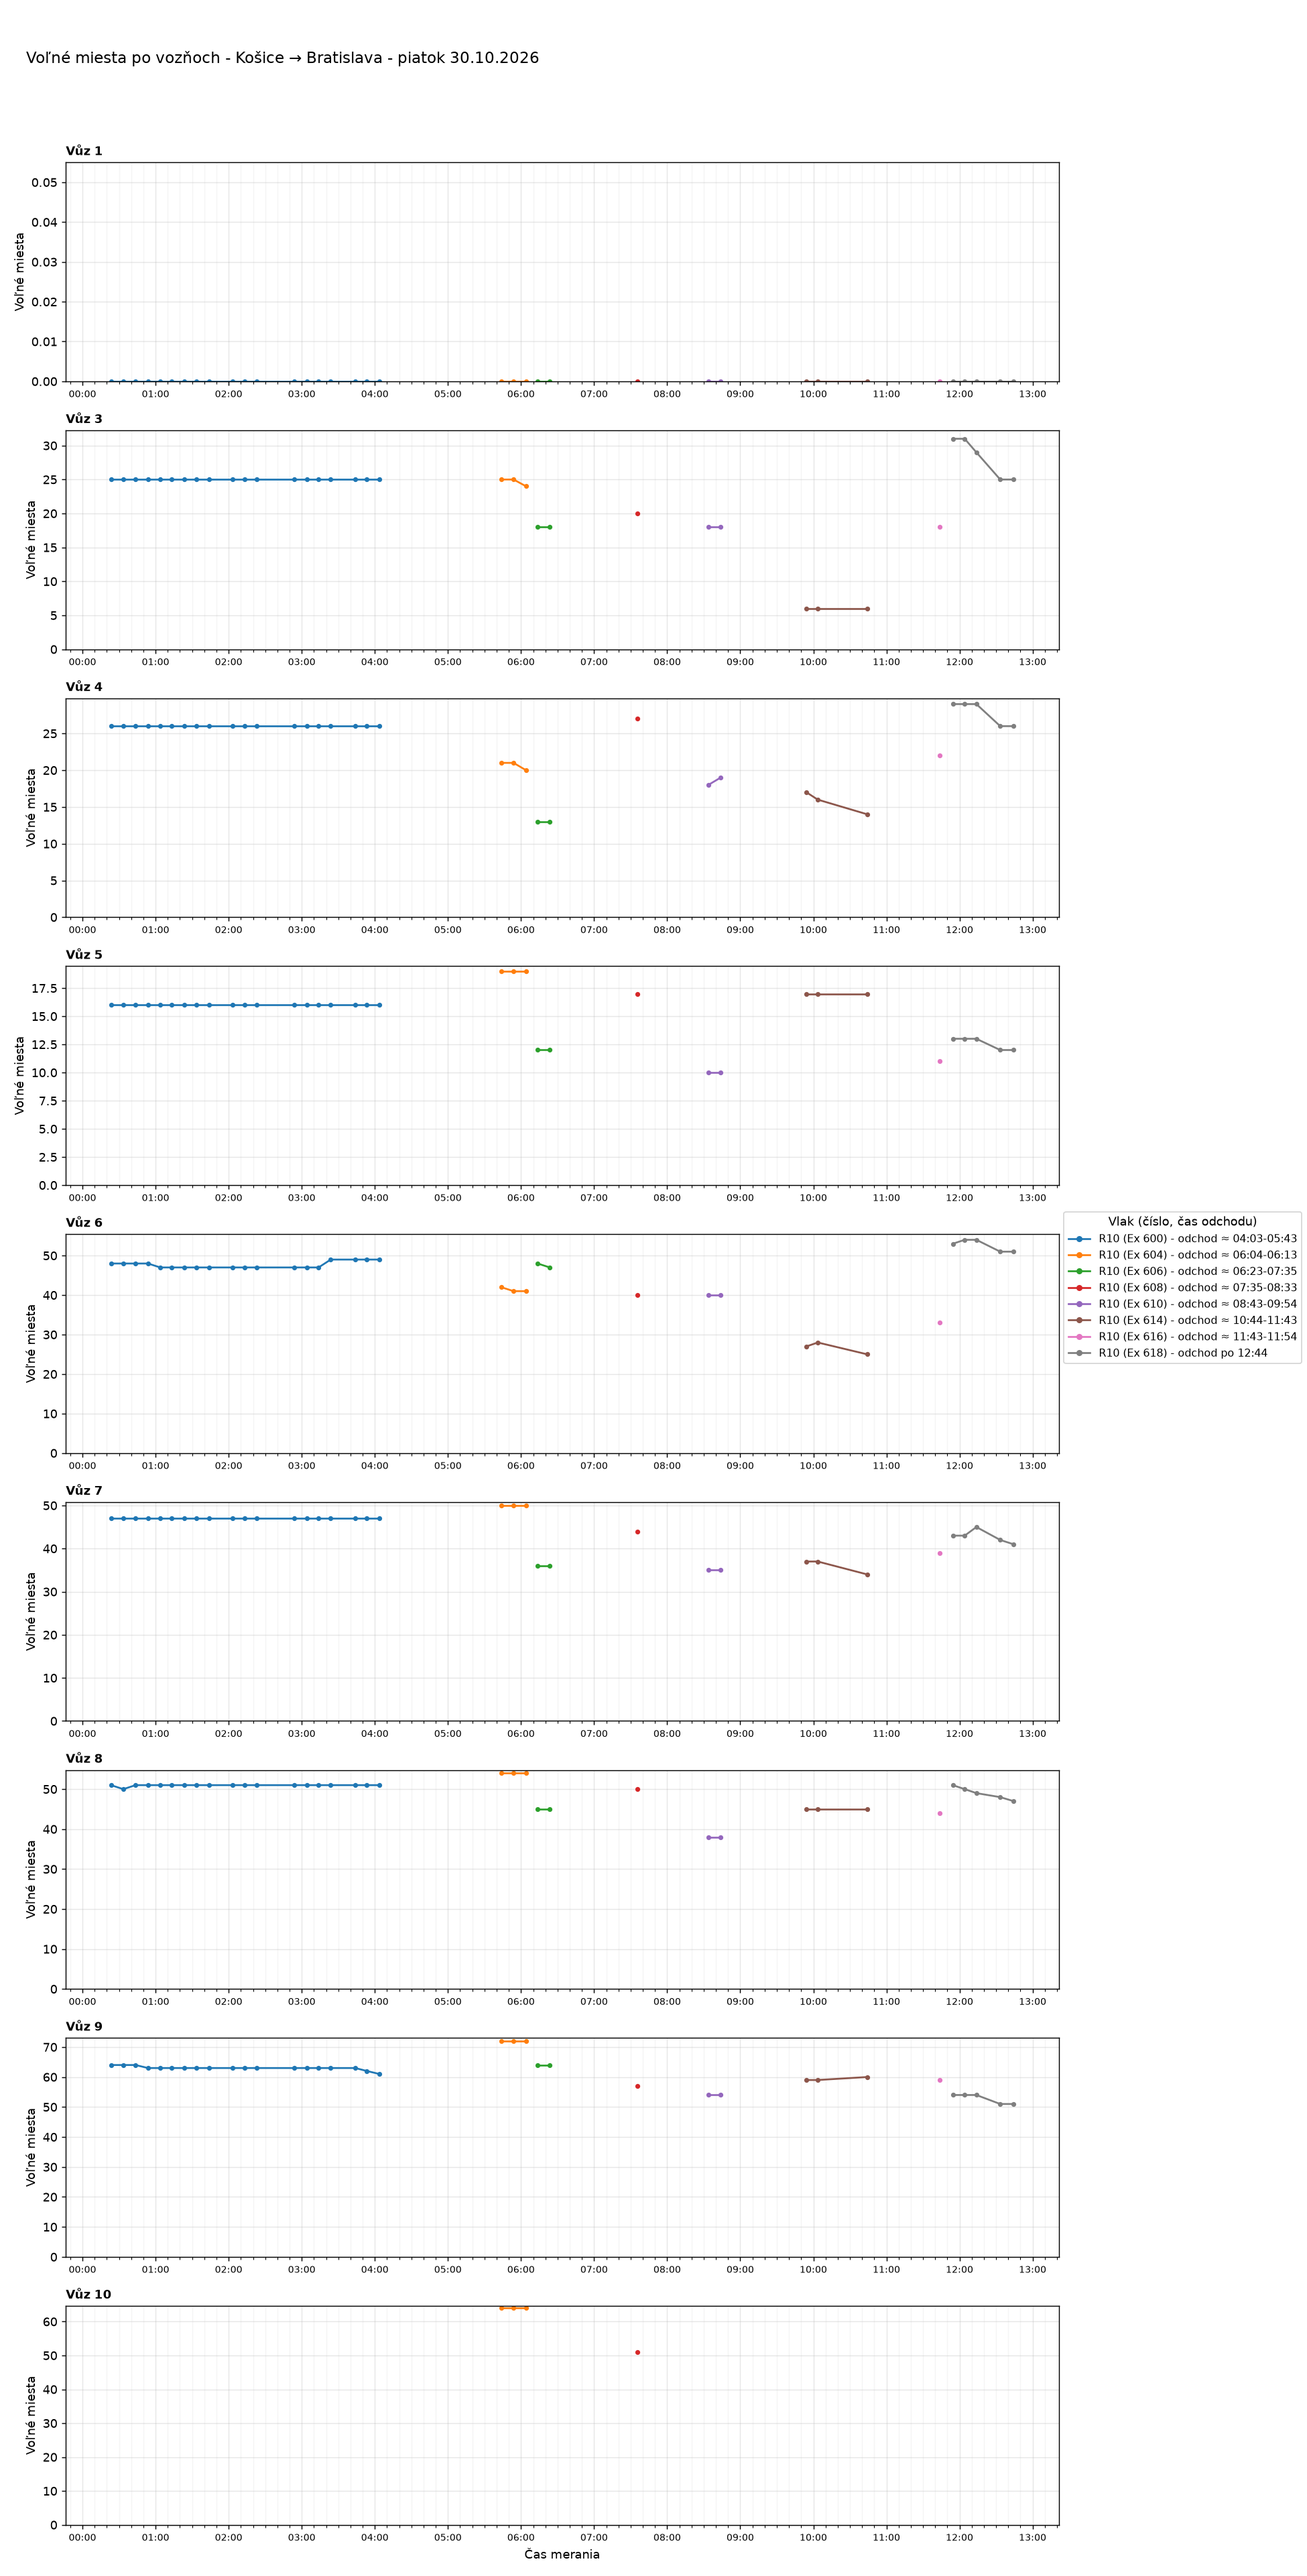
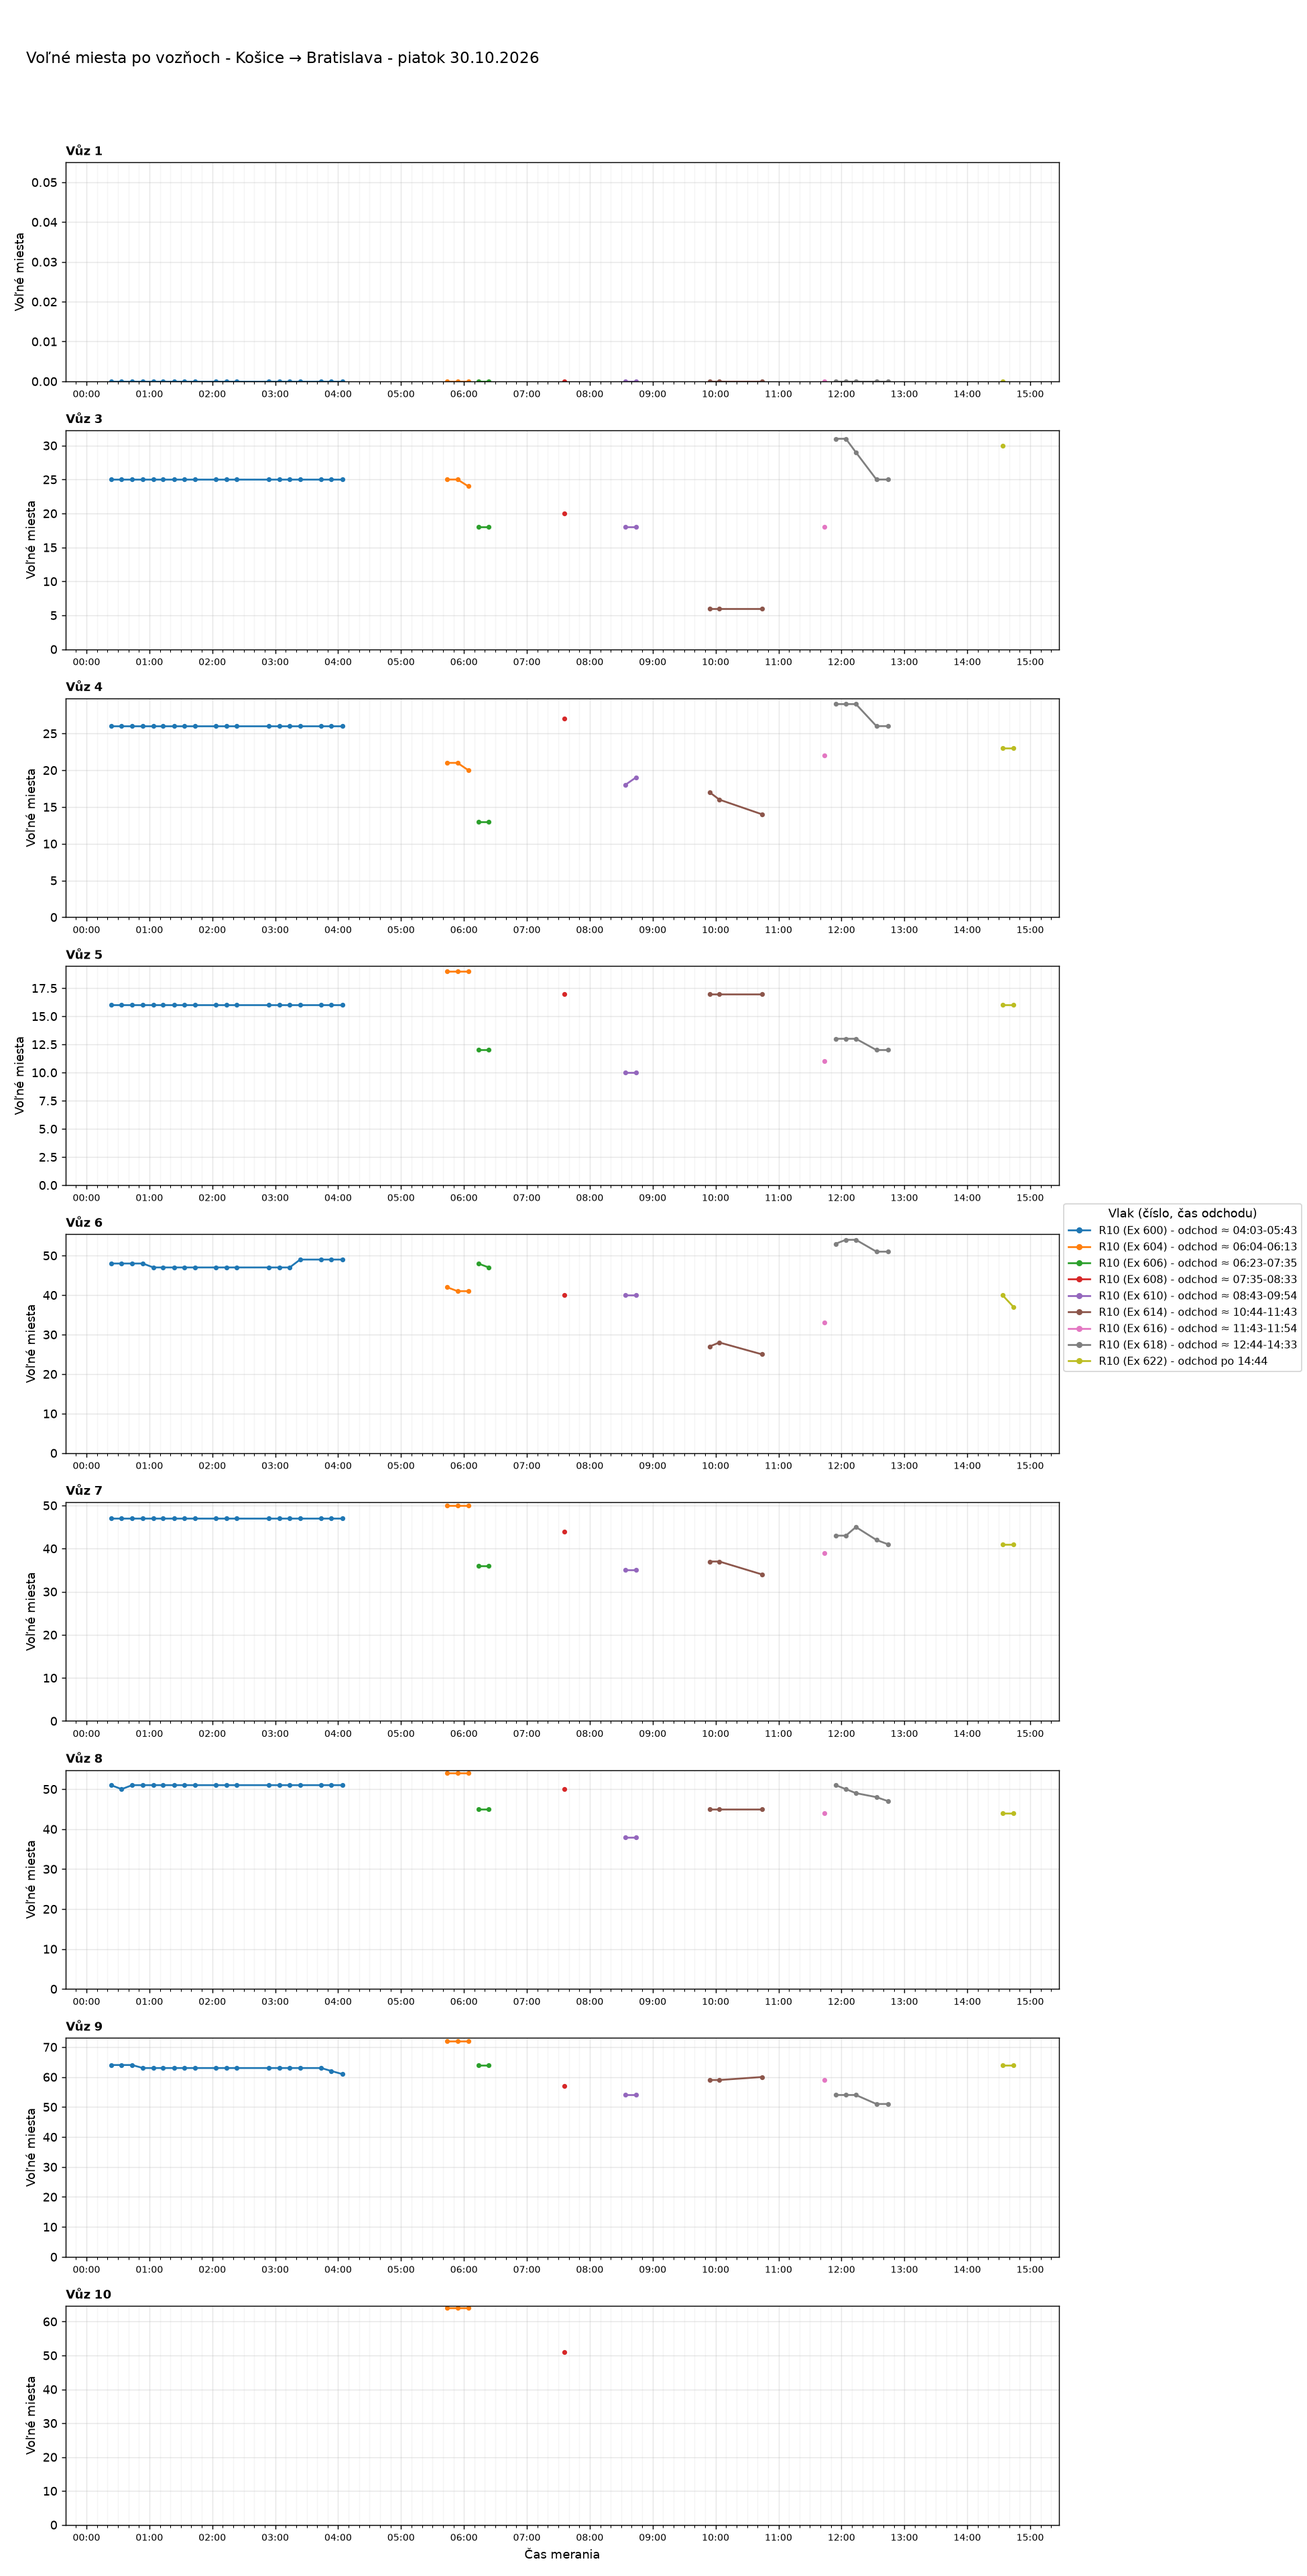
Aktualizácia grafov 2026-10-30 14:54

Changed region(s): [[0.8, 0.4684, 1.0, 0.5308]]

diff --git a/index.html b/index.html
@@ -37,7 +37,7 @@ details.trasa>summary{cursor:pointer;font-weight:600;font-size:1.1rem;padding:8p
 <body>
 <main>
 <h1>Voľné miesta vo vlakoch</h1>
-<p class="muted">Posledné meranie: 30.10.2026 13:42 ·
+<p class="muted">Posledné meranie: 30.10.2026 14:52 ·
 <a href="data/obsadenost_data.csv">stiahnuť dáta (CSV)</a></p>
 <nav class="nav"><a href="#suhrn">Súhrn</a><a href="#statistiky">Štatistiky</a><a href="#historia">História grafov</a></nav>
 
@@ -47,9 +47,9 @@ details.trasa>summary{cursor:pointer;font-weight:600;font-size:1.1rem;padding:8p
 <thead><tr><th>Deň</th><th>Trasa</th><th>Meraní</th><th>Vlakov</th><th>Čas meraní</th></tr></thead>
 <tbody>
 <tr><td><a href="#dBA-VR-2026-10-30">piatok 30.10.2026</a></td><td>Bratislava → Vrútky</td><td>48</td><td>10</td><td>00:31-13:42</td></tr>
-<tr><td><a href="#dVR-BA-2026-10-30">piatok 30.10.2026</a></td><td>Vrútky → Bratislava</td><td>36</td><td>8</td><td>02:52-12:42</td></tr>
+<tr><td><a href="#dVR-BA-2026-10-30">piatok 30.10.2026</a></td><td>Vrútky → Bratislava</td><td>39</td><td>9</td><td>02:52-14:52</td></tr>
 <tr><td><a href="#dBA-KE-2026-10-30">piatok 30.10.2026</a></td><td>Bratislava → Košice</td><td>41</td><td>9</td><td>00:22-12:43</td></tr>
-<tr><td><a href="#dKE-BA-2026-10-30">piatok 30.10.2026</a></td><td>Košice → Bratislava</td><td>36</td><td>8</td><td>00:23-12:44</td></tr>
+<tr><td><a href="#dKE-BA-2026-10-30">piatok 30.10.2026</a></td><td>Košice → Bratislava</td><td>38</td><td>9</td><td>00:23-14:44</td></tr>
 <tr><td><a href="#dBA-VR-2026-10-29">štvrtok 29.10.2026</a></td><td>Bratislava → Vrútky</td><td>84</td><td>14</td><td>00:01-23:31</td></tr>
 <tr><td><a href="#dVR-BA-2026-10-29">štvrtok 29.10.2026</a></td><td>Vrútky → Bratislava</td><td>75</td><td>15</td><td>02:42-21:02</td></tr>
 <tr><td><a href="#dBA-KE-2026-10-29">štvrtok 29.10.2026</a></td><td>Bratislava → Košice</td><td>76</td><td>13</td><td>00:03-23:22</td></tr>
